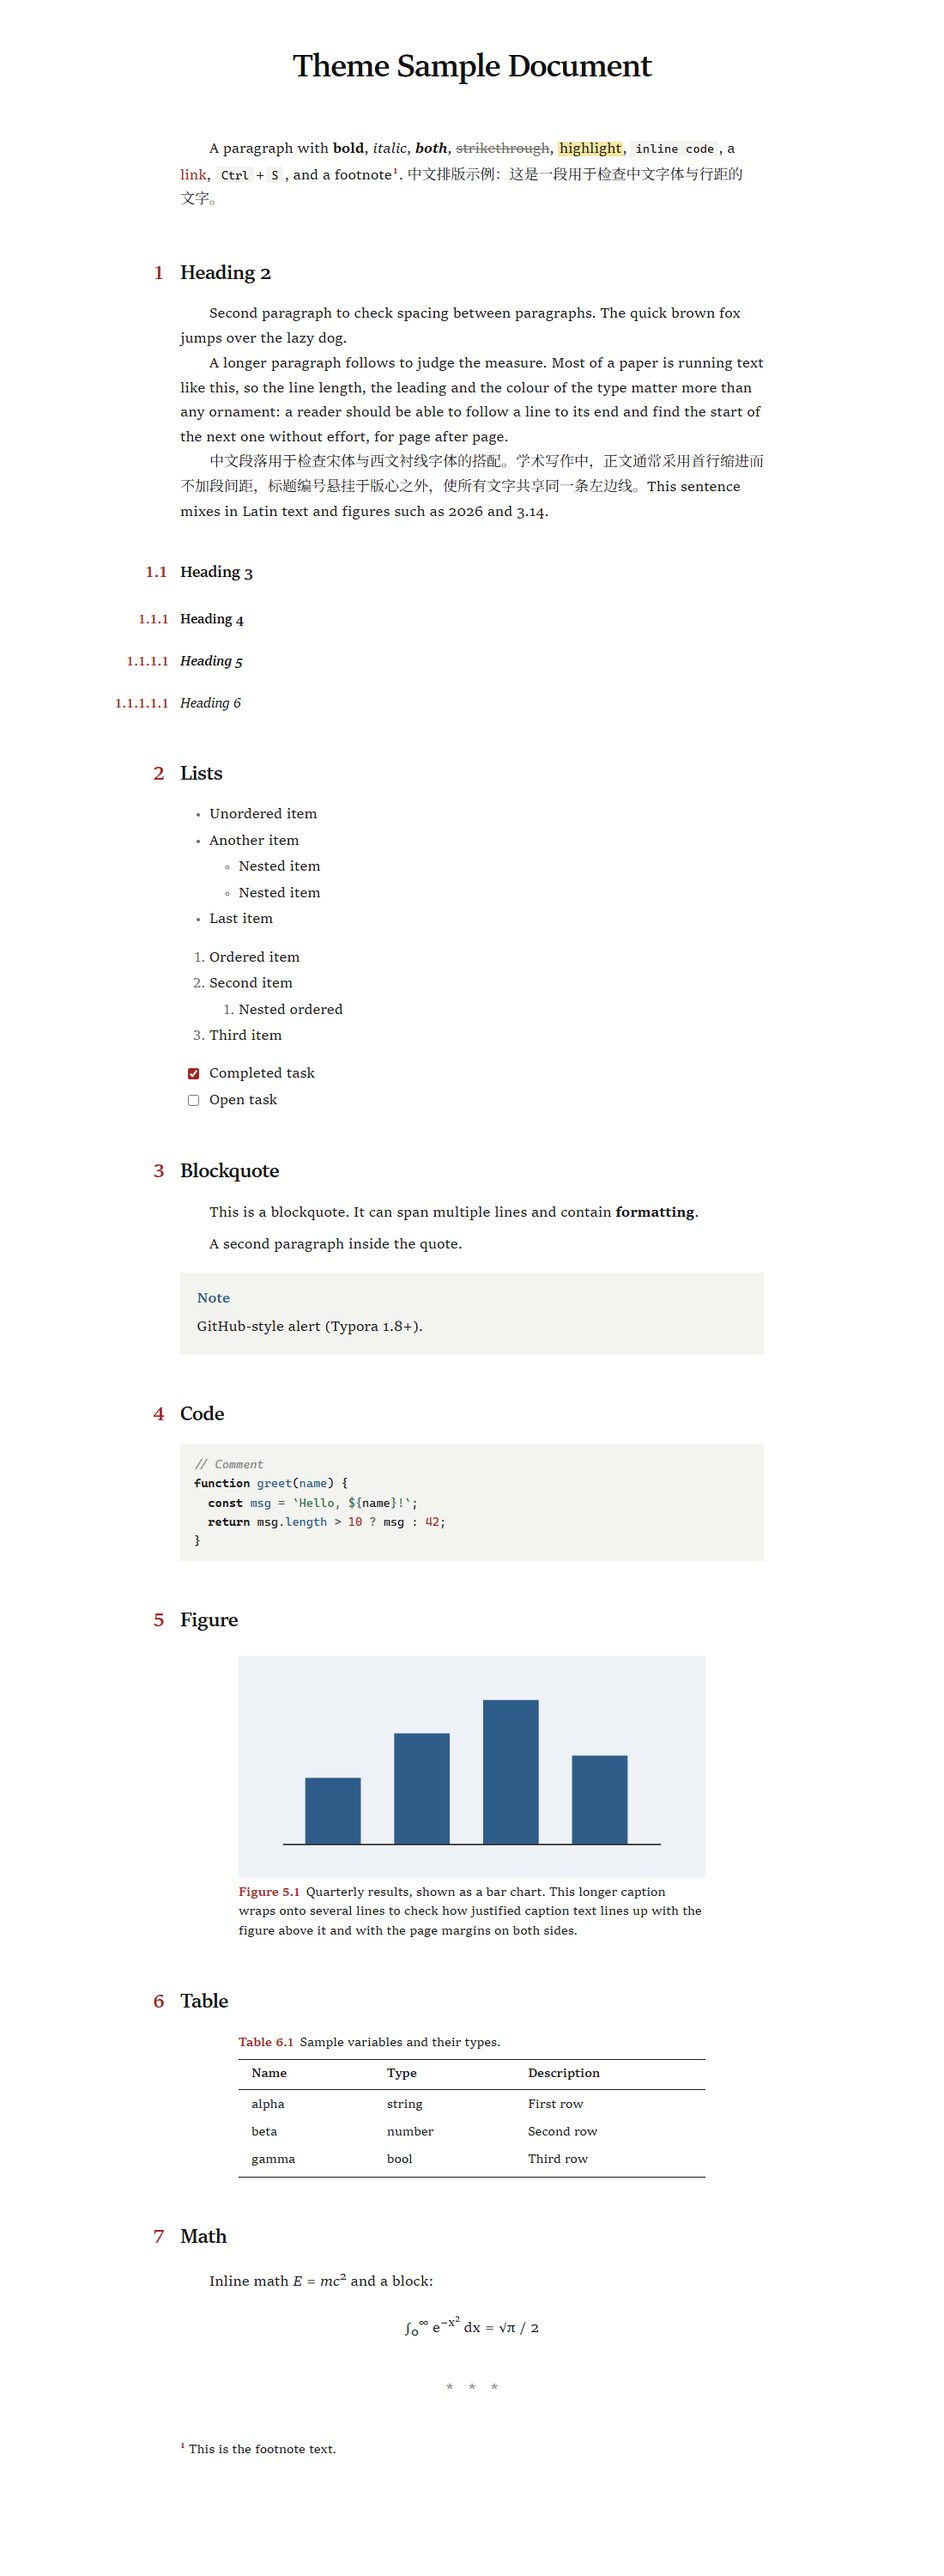
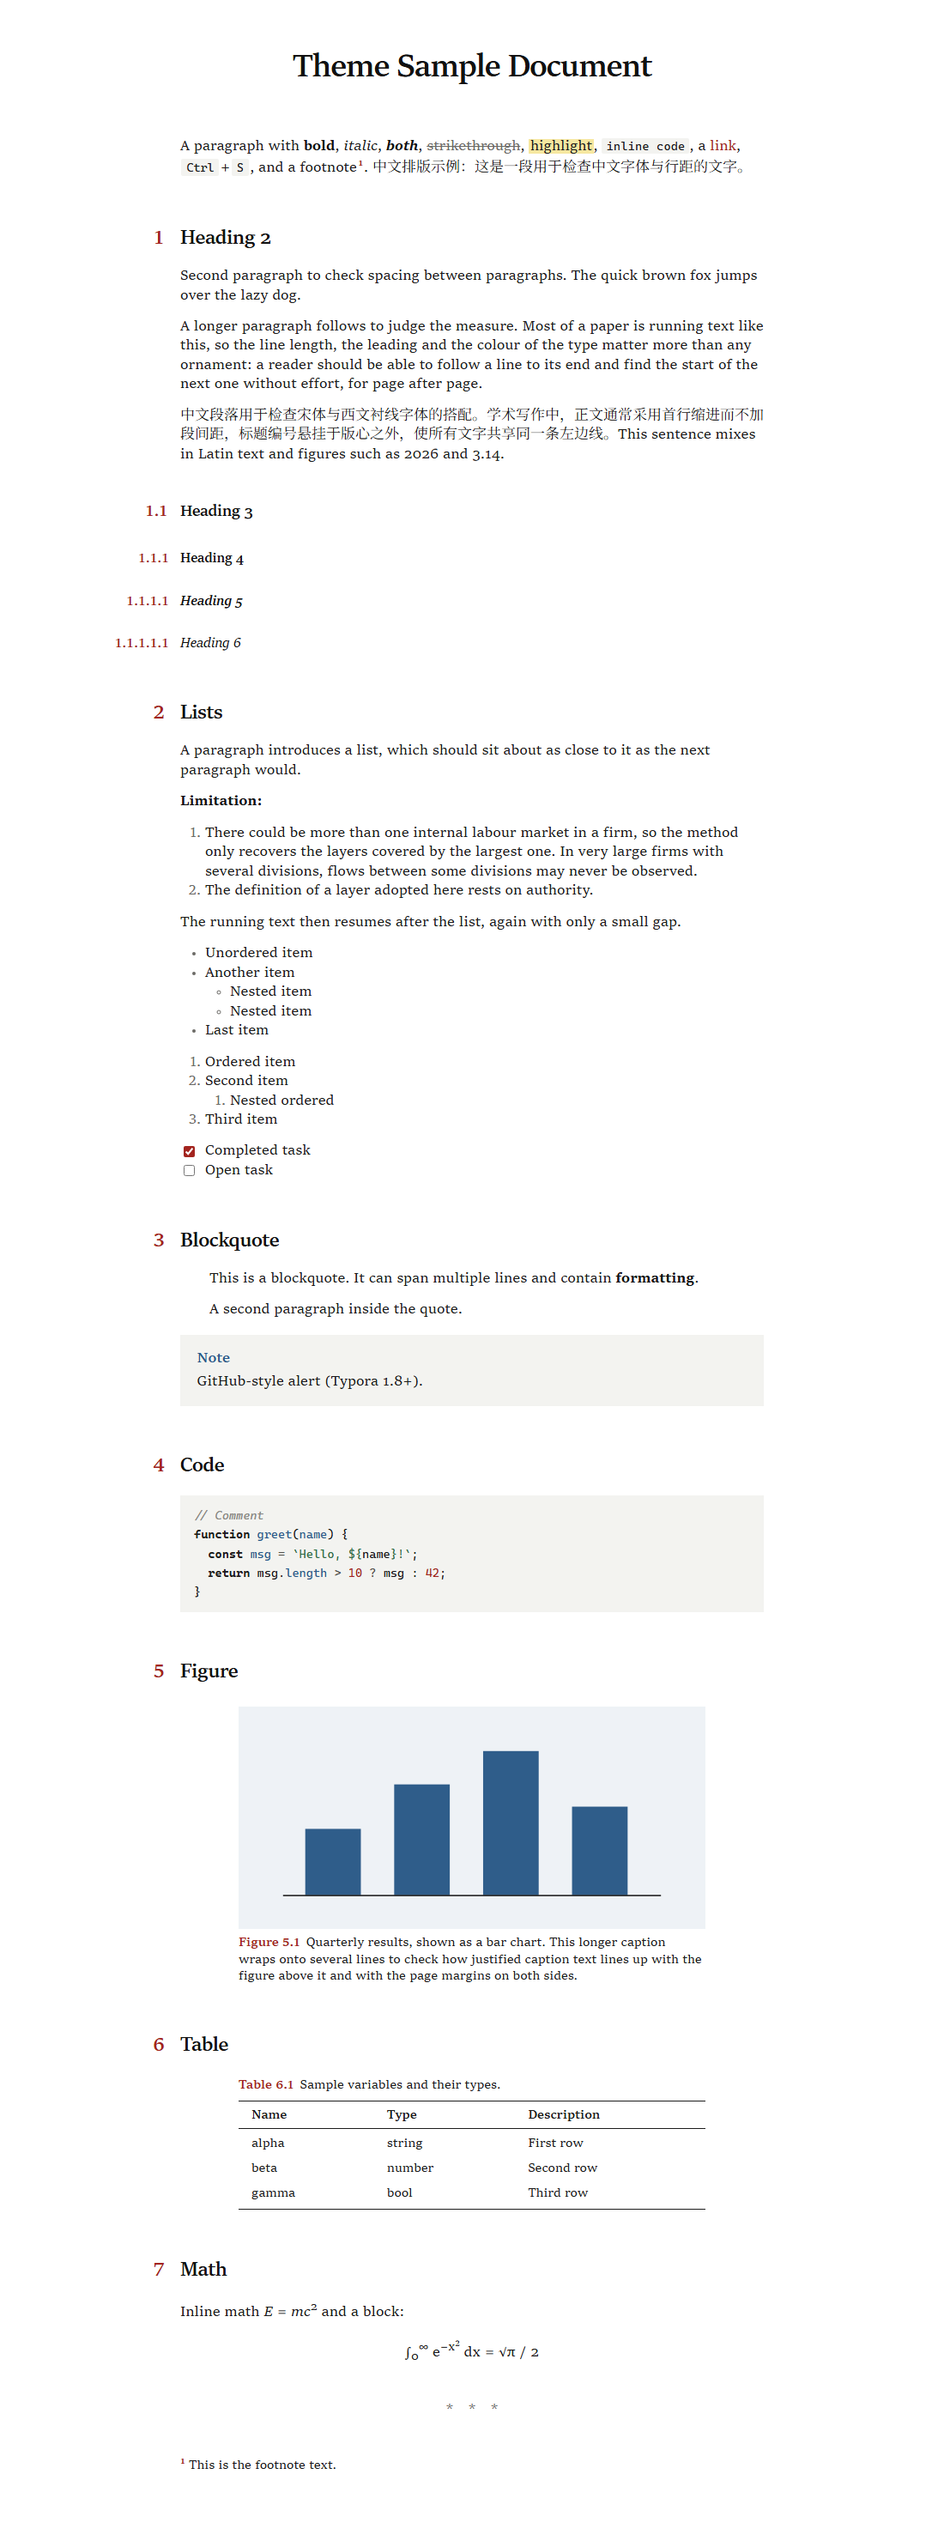
match to google doc spacing style: 1.15 between line space, add space after paragraph, keep no added space in lists.
delete first line indent

diff --git a/simple-academic-v2.css b/simple-academic-v2.css
@@ -33,10 +33,10 @@
   --monospace: "Cascadia Code", "JetBrains Mono", Consolas, "Noto Sans SC", "Microsoft YaHei", monospace;  /* code only; taste-skill-ignore */
   --base-size: 17px;                 /* 1rem; every size below scales from it */
   --small-size: 0.88rem;             /* captions, tables, footnotes: 15px */
-  --line-height: 1.7;                /* generous enough for mixed Chinese and Latin */
-  --list-line-height: 1.6;
-  --list-item-gap: 0.2em;
-  --list-gap: 0;                /* above and below lists when "indent first line" is on */
+  --line-height: 1.32;               /* Google Docs' "1.15" (1.15 x a typical font's 1.15 natural height) */
+  --list-line-height: var(--line-height);
+  --paragraph-gap: 0.83em;           /* Google Docs' "space after paragraph": 10pt after 12pt text */
+  --list-item-gap: 0;                /* lists stay tight: no space between or inside items */
   --text-width: 680px;               /* the measure: about 70 Latin characters */
   --gutter: 80px;                    /* side margin; section numbers hang in it */
   --hang-gap: 0.75em;                /* between a hung number and its heading */
@@ -82,21 +82,19 @@ body {
 
 #write > *:first-child { margin-top: 0; }
 
-p, ul, ol, blockquote, table, pre, .md-fences, figure {
+blockquote, table, pre, .md-fences, figure {
   margin: var(--block-gap) 0;
 }
+/* as in Google Docs: no space before a paragraph, a fixed space after it;
+   a list takes the same space after it as a whole, and none inside */
+#write p, #write ul, #write ol { margin: 0 0 var(--paragraph-gap); }
 p { text-wrap: pretty; }
 
-/* With Typora's "indent first line" on, paragraphs are separated by the indent alone,
-   as in a printed book; other blocks keep their own space above and below. */
-#write.first-line-indent > p { margin-top: 0; margin-bottom: 0; }
-#write.first-line-indent > :is(blockquote, pre, .md-fences, figure, table, .md-math-block) + p {
-  margin-top: var(--block-gap);
-}
-/* lists continue the running text, so they sit nearly as close as the paragraphs do */
-#write.first-line-indent > :is(ul, ol) { margin-top: var(--list-gap); margin-bottom: var(--list-gap); }
-#write.first-line-indent > :is(ul, ol) > li:first-child { margin-top: 0; }
-#write.first-line-indent > :is(ul, ol) > li:last-child { margin-bottom: 0; }
+/* paragraphs are separated by space, not indented: undo Typora's "indent first line"
+   preference (base.css indents p, shifts li and pulls image-only paragraphs back) */
+#write.first-line-indent p { text-indent: 0; }
+#write.first-line-indent li { margin-left: 0; }
+#write.first-line-indent p > .md-image:only-child:not(.md-img-error) img { left: 0; }
 
 a { color: var(--accent-color); text-decoration: none; }
 a:hover {
@@ -247,21 +245,16 @@ hr::before {
 /* ---------- lists ---------- */
 
 ul, ol { padding-left: 1.7em; line-height: var(--list-line-height); }
-li { margin: var(--list-item-gap) 0; }
-li > p { margin: 0; }
-li > ul, li > ol { margin: var(--list-item-gap) 0; }
+#write li { margin: var(--list-item-gap) 0; }
+#write li > p, #write li > ul, #write li > ol { margin: var(--list-item-gap) 0; }
 li::marker { color: var(--muted-color); font-variant-numeric: lining-nums; }
 
-/* with "indent first line" on, Typora shifts each li by 2em; drop the list padding
-   so item text lines up with a paragraph's first-line indent */
-#write.first-line-indent :is(ul, ol) { padding-left: 0; }
-#write.first-line-indent li > p { margin: 0; }
 
 .task-list-item, .md-task-list-item { list-style: none; position: relative; }
 #write .task-list-item input, #write .md-task-list-item > input {
   position: absolute;
   left: -1.45em;
-  top: 0.38em;
+  top: 0.24em;
   margin: 0;
   accent-color: var(--accent-color);
 }
@@ -276,8 +269,7 @@ blockquote {
   border: none;
   color: var(--text-color);
 }
-blockquote > p { margin: 0.5em 0; }
-#write.first-line-indent blockquote > p { text-indent: 0; }
+#write blockquote > p { margin: 0 0 var(--paragraph-gap); }
 
 /* alerts are notes beside the argument: a tone-step field, the kind named in its colour */
 #write .md-alert {
@@ -335,7 +327,7 @@ table {
   border-collapse: collapse;
   width: auto;                       /* fit content, centered */
   font-size: var(--small-size);
-  line-height: 1.5;
+  line-height: var(--line-height);
   font-variant-numeric: lining-nums tabular-nums;
   border-top: var(--table-rule-thick) solid var(--table-rule-color);
   border-bottom: var(--table-rule-thick) solid var(--table-rule-color);
@@ -391,7 +383,7 @@ img { max-width: 100%; border-radius: 0; }
   text-align: left;
   text-indent: 0;                    /* ignore Typora's "indent first line" preference */
   font-size: var(--small-size);
-  line-height: 1.5;
+  line-height: var(--line-height);
   color: var(--text-color);
 }
 
@@ -463,7 +455,7 @@ img { max-width: 100%; border-radius: 0; }
 #write hr + .footnotes-area > hr:first-child { display: none; }
 #write .footnote-line {
   font-size: var(--small-size);
-  line-height: 1.5;
+  line-height: var(--line-height);
   margin-top: 0.4em;
 }
 #write .footnote-line sup,

diff --git a/README.md b/README.md
@@ -22,7 +22,7 @@ A clean, paper-like theme for [Typora](https://typora.io) built for academic wri
 - **Section numbers hung in the left margin**, so every heading starts on the same left edge as the text. In narrow windows and in print/PDF export they sit inline.
 - **One rubric red, used only for references**: section numbers, caption labels, links and footnote marks. Running text stays black.
 - **No drawn lines except the table rules.** Code blocks and alerts sit on a light grey background. Block quotes are inset from both margins. `---` becomes three spaced asterisks.
-- With **Indent first line** on, paragraphs are separated by the indent alone, with no extra space between them.
+- **Google Docs spacing**: lines at Docs' "1.15" (`--line-height: 1.32`) and a 10pt space after each paragraph (`--paragraph-gap`), with no extra space inside lists. Paragraphs are never indented, even with Typora's **Indent first line** preference on.
 
 ![Simple Academic v2 preview](screenshots/preview-v2.png)
 
@@ -109,8 +109,8 @@ After editing, switch to another theme and back (or restart Typora) to reload.
 
 | Path | Purpose |
 | --- | --- |
-| `simple-academic.css` | The theme |
+| `simple-academic.css`, `simple-academic-v2.css` | The two themes |
 | `sample.md`, `lorem-ipsum.md` | Test documents covering every element |
-| `preview.html` | Browser preview that copies Typora's DOM; loads Typora's `base.css` from the local install (`D:\Typora\...`, adjust for your system) |
-| `tools/shot.ps1` | Takes a screenshot of `preview.html` with headless Edge (Windows) |
-| `tools/deploy.ps1` | Copies the theme into Typora's theme folder |
+| `preview.html`, `preview-v2.html` | Browser previews that copy Typora's DOM; they load Typora's `base.css` from the local install (`D:\Typora\...`, adjust for your system) |
+| `tools/shot.ps1` | Takes a screenshot of `preview.html` (or `-Page preview-v2.html`) with headless Edge (Windows) |
+| `tools/deploy.ps1` | Copies the theme into Typora's theme folder (`-Theme simple-academic-v2` for v2) |
